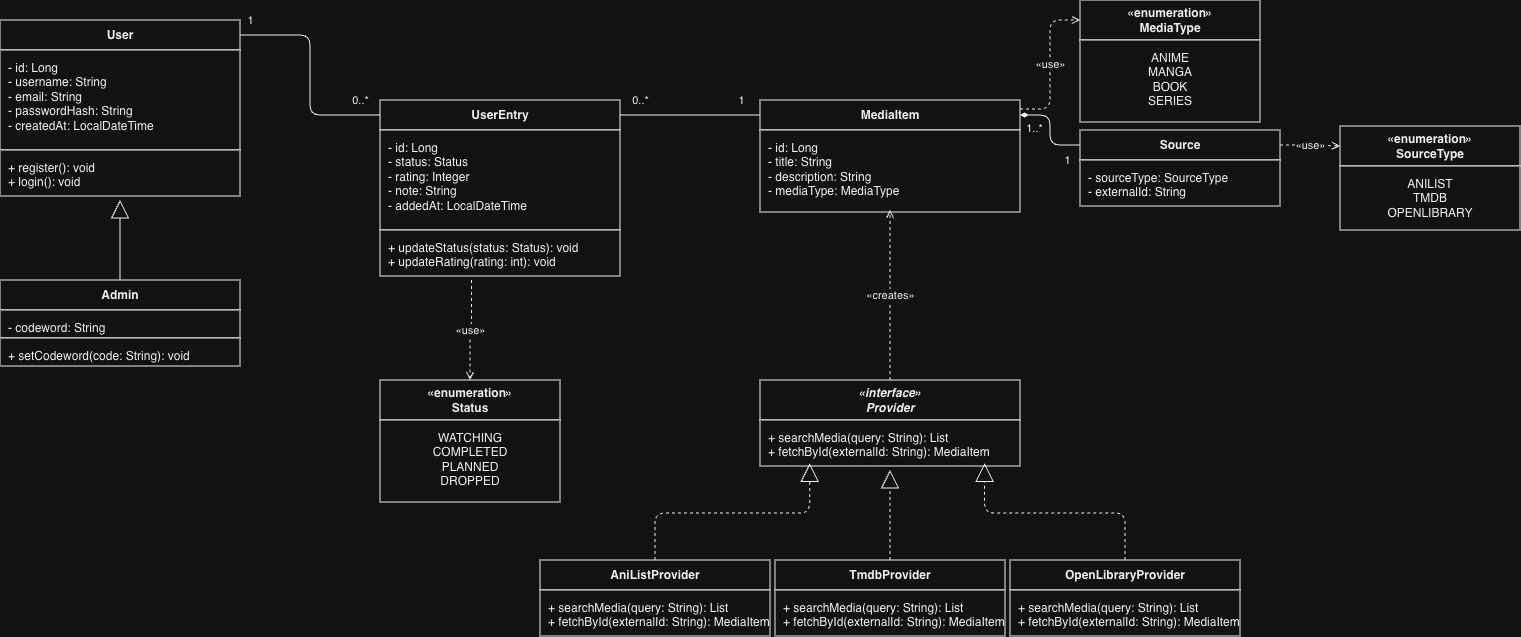
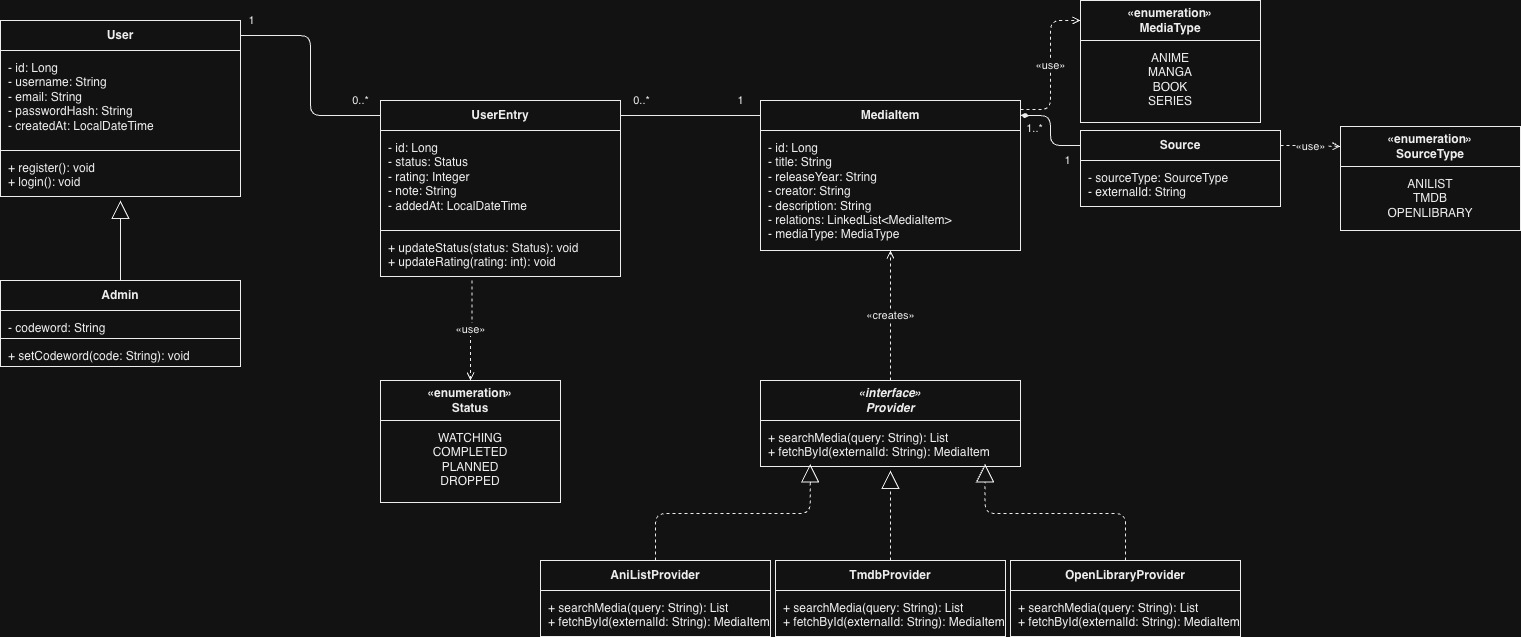
modified the existing Class-Diagram and deleted a falsely pushed temporary Draw.io file. Also added ADR-003, the Decision for the chosen Database-System, and ADR-004, the Decision for the chosen Database-Tool

diff --git a/Documentation/ADRs/ADR-004.md b/Documentation/ADRs/ADR-004.md
@@ -1,0 +1,46 @@
+# ADR-004: Choice of Migration Tool
+
+## Status
+
+Accepted
+
+## Date
+
+05.08.2026
+
+## Context
+
+With PostgreSQL settled as the database (ADR-003), schema changes need
+to be versioned and applied consistently across environments (local, CI,
+production) instead of being run manually. A migration tool must be chosen
+between Flyway and Liquibase.
+
+## Decision
+
+Flyway is used as the migration tool.
+
+## Alternatives Considered
+
+- **Option A:** Flyway: plain SQL migrations fit a solo project
+  well, integrates with almost no configuration via Spring Boot's default
+  autoconfiguration, and rollback support, which is only freely available in Liquibase
+is not needed in a small project like this.
+
+
+- **Option B:** Liquibase: its XML/YAML/JSON abstraction and
+  built-in rollback support add more overhead than needed here, and its
+  benefits (DB-independence, complex rollback scenarios) mainly pay off in
+  larger teams or projects that expect to switch databases.
+
+## Consequences
+
+**Positive:**
+
+- Simple migrations that are easy to write and review
+- Minimal Spring Boot configuration overhead
+- Good fit for a single person project without complex rollback needs
+
+**Negative / Trade-offs:**
+
+- No free built-in rollback. a faulty migration must be corrected with a new
+  forward migration instead of an automatic rollback

diff --git a/Documentation/ADRs/ADR-003.md b/Documentation/ADRs/ADR-003.md
@@ -1,0 +1,39 @@
+# ADR-003: Choice of Database System
+
+## Status
+
+Accepted
+
+## Date
+
+05.08.2026
+
+## Context
+
+The backend needs a relational database to persist the Java Classes and related data (see UML-Class-Diagram). The database choice was
+left open between PostgreSQL and MySQL and must be settled before the
+migration tool and the DB schema can be finalized.
+
+## Decision
+
+PostgreSQL is used as the relational database.
+
+## Alternatives Considered
+
+- **Option A:** PostgreSQL: is a common, well-documented default for self-hosted Java/Spring Boot projects.
+- **Option B:** MySQL: no concrete advantage for this project and
+  PostgreSQL's stricter constraint behavior fits the domain model
+  better.
+
+## Consequences
+
+**Positive:**
+
+- Consistent with the existing Component-Diagram, no rework needed there
+- Native enum type support fits the used enums well
+- Large ecosystem and documentation for self-hosted Spring Boot setups
+
+**Negative / Trade-offs:**
+
+- Slightly less common in shared/managed hosting environments than MySQL,
+  though irrelevant here since hosting is self-managed
